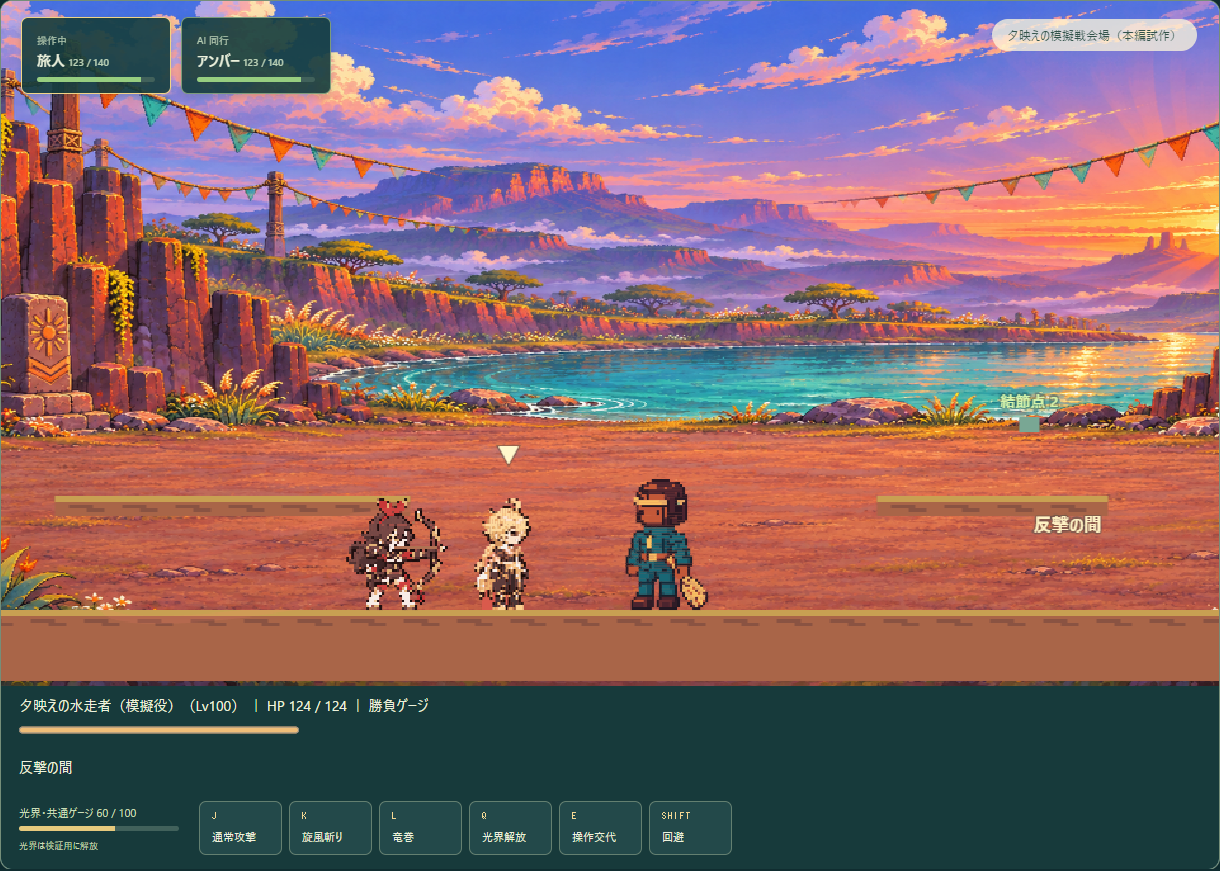
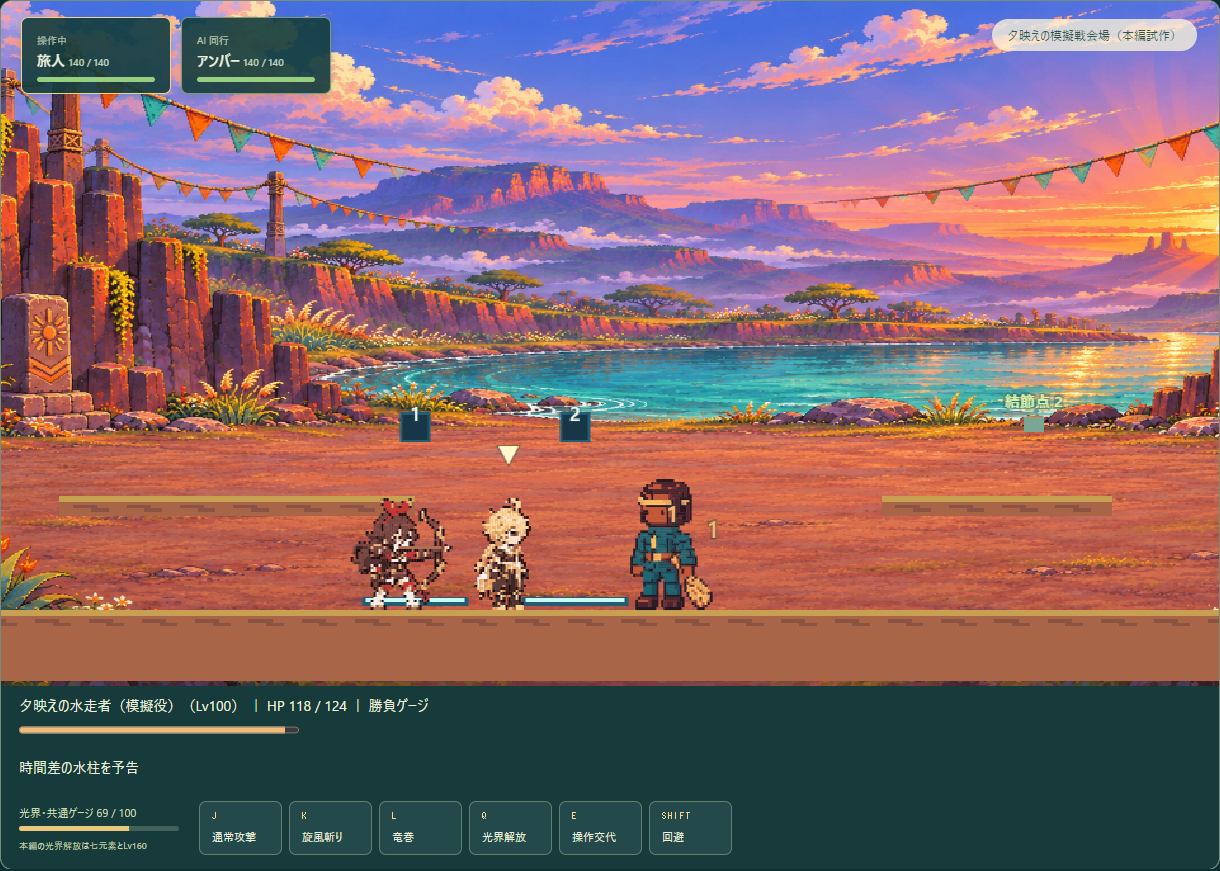
Give the sunset duel a moving charge and timed water columns

diff --git a/test_natlan_sunset_duel.py b/test_natlan_sunset_duel.py
@@ -30,6 +30,14 @@ def frame(s):
     return core.frame(s,'sprite','legacy')
 
 
+def until(s,predicate):
+    for _ in range(480):
+        if predicate():
+            return
+        step(core,s,1)
+    raise AssertionError(native(frame(s).storyDuel))
+
+
 def gate(s,x,dest,y=480):
     move(s,x,y)
     portal=frame(s).storyNearbyPortal
@@ -83,12 +91,36 @@ strike(s,20)
 guarded=124-s.enemies[1].hp
 assert 0<guarded<20
 s.actors[1].inv=0
-step(core,s,100)
-assert s.actors[1].hp<hp
+until(s,lambda: s.actors[1].hp<hp)
+charge=frame(s).storyDuel
+assert charge.phase=='out' and charge.move=='SR01'
+assert charge.x==s.enemies[1].x and abs(charge.x-s.actors[1].x)<54
 move(s,650,390)
 hp=s.actors[1].hp
-step(core,s,96)
+until(s,lambda: s.duelRound.phase=='opening')
 assert s.actors[1].hp==hp and frame(s).storyDuel.phase=='opening'
+assert s.enemies[1].x==s.enemies[1].home
+before=s.enemies[1].hp
+strike(s,20)
+assert before-s.enemies[1].hp>guarded
+until(s,lambda: s.duelRound.phase=='splashWarning')
+warning=frame(s).storyDuel
+assert warning.move=='SR02' and len(warning.marks)==2
+first_mark,second_mark=(warning.marks[i].x for i in (1,2))
+assert (first_mark,second_mark)==(650,776)
+move(s,570,390)
+until(s,lambda: s.duelRound.phase=='splash')
+assert s.actors[1].hp==hp
+first_jet=frame(s).storyDuel
+assert first_jet.marks[1].state=='active' and first_jet.marks[2].state=='warning'
+assert (first_jet.marks[1].x,first_jet.marks[2].x)==(first_mark,second_mark)
+move(s,second_mark)
+until(s,lambda: s.actors[1].hp<hp)
+assert frame(s).storyDuel.marks[2].state=='active'
+second_hit=s.actors[1].hp
+assert hp-second_hit==21
+until(s,lambda: s.duelRound.phase=='splashOpening')
+assert s.actors[1].hp==second_hit
 before=s.enemies[1].hp
 strike(s,20)
 assert before-s.enemies[1].hp>guarded
@@ -102,6 +134,9 @@ assert (s.mora,s.progression.questXp,s.inventory.upgradeOre)==kept
 assert '仕切り直し' in s.storyNotice
 strike(s,30)
 hp=s.enemies[1].hp
+step(core,s,90)
+elapsed=checkpoint(s)['fieldBosses'][boss]['elapsedTicks']
+assert elapsed>=90
 s=restore(s)
 assert s.story.node==meet
 gate(s,1240,review);gate(s,1412,arena,390)
@@ -112,6 +147,7 @@ strike(s,1600)
 clear=CHAPTER_CLEAR_EXP['Q-NAT-M03:BOSS_FIRST']
 assert s.story.quests[quest].count==3 and s.progression.questXp==before+clear
 assert frame(s).storyDuel is None and frame(s).storyFirstClear.xp==clear
+assert s.endgame.bosses[boss].bestTicks>=elapsed and s.endgame.bosses[boss].clears==1
 collect(s,1408,4)
 gate(s,1560,rostrum)
 collect(s,853,5,390)
@@ -135,9 +171,13 @@ for _ in range(2):
     strike(s,1600)
     assert frame(s).storyDuel is None and frame(s).fieldBoss is None
     assert (s.progression.questXp,s.progression.killXp,s.mora,s.inventory.upgradeOre)==before
+    assert s.endgame.bosses[boss].clears==1
 
 proof=dict(prerequisite=True,realLaneDamage=True,upperShelfSafety=True,pauseFreezes=True,
+           moves=['SR01','SR02'],movingCharge=True,lockedSplashMarks=[first_mark,second_mark],
+           safeOutsideTheMarks=True,secondSplashDamage=21,bothOpeningsAllowFullDamage=True,
            hydroWorksAndOpeningHelps=True,lossResetsSameArena=True,keepsRewards=True,activeHpAfterSave=True,
+           elapsedTicksAfterSave=True,firstClearRecorded=True,replayDoesNotCountAsFirstClear=True,
            firstWinOnce=True,arenaCalmAfterWin=True,recordAfterSave=True,replaysWithoutRewards=True,
            firstClearExp=clear,reward=reward)
 (ROOT/'evidence/natlan-sunset-duel-lua.json').write_text(json.dumps(proof,indent=2)+'\n',encoding='utf8')

diff --git a/runtime.py b/runtime.py
@@ -449,7 +449,8 @@ def runtime():
     core.natlanRaceFlagArt=field_art(lua,'natlan-race-flag',('idle',),idle='natlan-race-flag-sprites-v1.json').idle
     core.natlanTrialRaftArt=field_art(lua,'natlan-trial-raft',('idle',),idle='natlan-trial-raft-sprites-v1.json').idle
     river_racer=field_display(core,field_art(lua,'river-racer',('idle',)).idle)
-    river_racer.damageFactor=lua.eval("function(s) return s.duelRound and s.duelRound.phase=='opening' and 1 or .65 end")
+    river_racer.damageFactor=duel.damageFactor
+    river_racer.storyDriven=True
     moon_crab=lua.execute((ROOT/'field-moon-crab.lua').read_text(encoding='utf8'))(core)
     core.moonCrabArt=field_art(lua,'moon-crab',('idle','cracked'))
     core.paperLanternArt=field_art(lua,'paper-lantern',('idle',),idle='paper-lantern-sprites-v1.json').idle

diff --git a/docs/balance/NATLAN_SUNSET_DUEL_WEB.md b/docs/balance/NATLAN_SUNSET_DUEL_WEB.md
@@ -3,16 +3,16 @@
 Lv100で高台と水辺の試練（Q-NAT-M02）を報告すると、夕映え会場の控え広場で本編最終話（Q-NAT-M03）を始められます。
 
 1. 受付で対戦札を確認し、控えの確認所へ進みます。上段の確認盤を調べると会場への門が開きます。
-2. 会場の開始位置を調べます。地上の水路は予告した側から流れ、反対側で折り返します。上段から流れを見て、水が引いたら地上へ降りて反撃します。
+2. 会場へ入ると模擬戦が始まります。水走者は地上に示した線に沿って往復します。岩棚に上がってやり過ごし、水走者が中央に戻ったら地上へ降りて反撃します。次の水柱は予告した二地点に番号順に立ちます。岩棚の高さまで届くので、印から横へ離れます。
 3. 模擬戦に勝つと、初回の勝利で6,826,100 EXPを獲得します。右奥で勝負を確認し、記録台へ進むと報告で8,024,394 EXP、10,800モラ、強化鉱6を一度受け取れます。
 4. 報告後は控え広場から会場と記録台へ戻れます。会場の鐘で練習を開始できます。練習では報酬は発生しません。
 
-全滅した場合は同じ会場で再試行できます。最初の対戦中に保存した相手のHPは、読み込み後も引き継ぎます。水路の仮設定は予告1.48秒、往路と復路が各0.76秒、折り返し0.42秒、反撃2.12秒です。水のダメージは通過方向ごとに1回です。
+全滅した場合は同じ会場で再試行できます。初回の対戦中に保存した残りHPと経過時間は、町から会場へ戻ると引き継ぎます。攻撃は予告から始まります。往復突進の仮設定は予告1.48秒、往路と復路が各0.76秒、折り返し0.42秒です。水柱は予告開始1.28秒後と1.90秒後に出ます。どちらの攻撃の後にも2.12秒の反撃時間があります。
 
 ## 仮素材と描画比較
 
-対戦相手の表示には、三方向を確認した自作の形状モデルをもとに、頭を大きく、胴と膝下を短くした「夕映えの水走者（模擬役）」を置いています。水路は会場の仕掛けです。固有技と連続アニメーションは未制作です。会場の背景はラボ用の仮画像で、本番では3D配置で制作する方針です。 [形状モデルの三方向](../../evidence/river-racer-views.png) · [素材と変換記録](../../evidence/river-racer-art.json)
+対戦相手には、三方向から確認した自作の形状モデルをもとに作ったドット絵を使っています。往復突進ではドット絵と当たり判定が同時に移動します。専用の連続アニメーションと装備別の難度調整は制作中です。会場の背景はラボ用の仮画像で、本番では3D配置で制作する方針です。 [形状モデルの三方向](../../evidence/river-racer-views.png) · [素材と変換記録](../../evidence/river-racer-art.json)
 
-ラボで `P` を押して停止すると、表示方式を切り替えて同じ場面を比較できます。Chromeで反撃時間中の同じ場面を撮り、PNGが24件、標準矩形が5,944件、軽量16色が1,484件の描画命令になりました。軽量16色は標準矩形から75.0%減です。軽量表示でも水走者の頭巾、衣装、パドルの輪郭を確認でき、顔や衣装の細かい陰影は簡略化されています。 [PNG表示](../../evidence/natlan-sunset-duel-png.png) · [軽量16色表示](../../evidence/natlan-sunset-duel-light.png)
+ラボで `P` を押して停止すると、表示方式を切り替えて同じ場面を比較できます。Chromeで水柱の予告中に撮った同じフレームは、PNGが30件、標準矩形が5,950件、軽量16色が1,490件の描画命令でした。軽量16色では標準矩形から75.0%減り、頭巾、衣装、パドルの輪郭と水柱の予告番号を確認できます。顔や衣装の細かい陰影は簡略化されます。 [PNG表示](../../evidence/natlan-sunset-duel-png.png) · [軽量16色表示](../../evidence/natlan-sunset-duel-light.png)
 
-Luaで水路の被弾、上段の安全、全滅からの再試行、保存・再開、報酬の重複防止を検査しました。ChromeではQ-NAT-M01・M02を完了したLv100の検証データで、受付から対戦、報告、再訪、報酬なしの再戦まで確認しました。 [Luaの結果](../../evidence/natlan-sunset-duel-lua.json) · [Chromeの結果](../../evidence/natlan-sunset-duel-browser.json) · [会場の記録台](../../evidence/natlan-sunset-duel-record.png)
+Luaで突進中の当たり判定、上段からの回避、水柱の位置固定・時間差・命中、両方の反撃時間、全滅と保存からの再開を確認しました。ChromeではQ-NAT-M01・M02を完了したLv100の検証データで、受付から対戦、報告、再訪、報酬なしの再戦まで確認しました。初回の勝利記録は保存後も残ります。 [Luaの結果](../../evidence/natlan-sunset-duel-lua.json) · [Chromeの結果](../../evidence/natlan-sunset-duel-browser.json) · [会場の記録台](../../evidence/natlan-sunset-duel-record.png) · [ナド・クライ到着までのLua試走](../../evidence/natlan-fresh-route.json)

diff --git a/CHAT_HANDOFF.md b/CHAT_HANDOFF.md
@@ -1,5 +1,9 @@
 # ChatGPTへの引き継ぎ
 
+## 夕映えの水走者の模擬戦
+
+ナタ第3話の水走者に、岩棚へ上がって避ける往復突進と、番号順に発生する水柱の試作を入れた。突進中は本体と命中範囲が同時に動き、水柱は警告時の二地点に留まる。Chromeで受付・勝利・報告・再訪後の練習まで確認。Luaでは初回対戦の残りHPと経過時間を復元し、再戦で報酬や初回勝利記録が増えないことを確認した。 [道順と描画比較](docs/balance/NATLAN_SUNSET_DUEL_WEB.md)
+
 ## 枝傘の大キノコンとグラン・フィナーレの試作戦闘
 
 大キノコンは左右に時間差で広がる胞子と、予告位置からの噴き上げ。グラン・フィナーレの舞台機関は足元を払うアームと、命中範囲が本体とともに進む荷台。それぞれ既存のドット絵を使い、予告を避けた後に反撃できる。Chromeで討伐から上段の観測、公演と報告、再読み込みまで各依頼の流れを確認した。Luaでは舞台機関の戦闘途中から残りHPと経過時間が復元され、初回報酬が重複しないことを確認した。 [スメールの道順と描画比較](docs/balance/SUMERU_CANOPY_WEB.md) · [フォンテーヌの道順と描画比較](docs/balance/FONTAINE_GRAND_FINALE_WEB.md)
